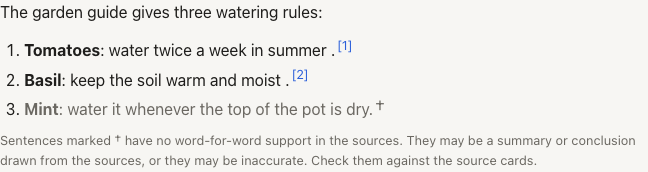
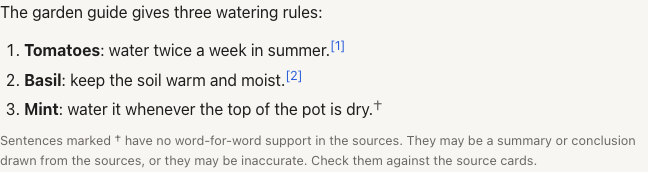
Ask display: closing punctuation against the last word, then citations, then the dagger; unsupported sentences keep the text colour; Drawn from heading gets the Show more chevron; Ask screenshots taken again

Changed region(s): [[0.0309, 0.5814, 0.5864, 0.6686], [0.4938, 0.2326, 0.5556, 0.3198], [0.4321, 0.407, 0.4938, 0.4942]]

diff --git a/src/renderer/ask/answer-source.test.js b/src/renderer/ask/answer-source.test.js
@@ -1,5 +1,6 @@
 import { describe, expect, it } from 'vitest';
-import { claimsSource, streamingSource } from './answer-source.js';
+import { claimsSource, streamingSource, tightEnd } from './answer-source.js';
+import { claimsOf, parseCitations } from '../../main/answer/citations.ts';
 import { parseBlocks, plainText } from '../shared/markdown.js';
 
 const make = { cite: (n) => `cite ${n}`, mark: () => 'mark', span: (c) => c.text };
@@ -66,5 +67,69 @@ describe('streamingSource', () => {
     );
     expect(r.src.slice(0, 11)).toBe('- **Rose** ');
     expect(nodeAt(r, r.src.at(-1))).toBe('cite 3');
+  });
+});
+
+// The spacing rule end to end: a reply as the model writes it, its claims as the pipeline makes
+// them (claimsOf), and the text the Ask page shows, with [n] for a citation and the dagger.
+describe('text, punctuation, citations, dagger (display spacing)', () => {
+  const shown = (claims) => {
+    const r = claimsSource(claims, { cite: (n) => `[${n}]`, mark: () => '†', span: () => null });
+    return [...plainText(r.src).plain].map((ch) => r.nodes.get(ch)?.() ?? ch).join('');
+  };
+  const reply = (text, max = 3) => shown(claimsOf(parseCitations(text), max));
+
+  it('puts the citation after the full stop, wherever the model wrote it', () => {
+    for (const text of [
+      'Water weekly [2].',
+      'Water weekly[2].',
+      'Water weekly.[2]',
+      'Water weekly. [2]',
+      'Water weekly [2] .',
+      'Water weekly .[2]',
+    ])
+      expect(reply(text).trim(), text).toBe('Water weekly.[2]');
+  });
+
+  it('puts the dagger right after the full stop, and after the citations', () => {
+    expect(reply('Mint spreads fast .').trim()).toBe('Mint spreads fast.†');
+    expect(reply('Mint spreads fast.').trim()).toBe('Mint spreads fast.†');
+    const both = [{ text: 'Water weekly .', citations: [2], unsupported: true }];
+    expect(shown(both).trim()).toBe('Water weekly.[2]†');
+  });
+
+  it('does the same in Chinese', () => {
+    for (const text of ['每周浇水两次[2]。', '每周浇水两次 [2] 。', '每周浇水两次。[2]', '每周浇水两次 。[2]'])
+      expect(reply(text).trim(), text).toBe('每周浇水两次。[2]');
+    expect(reply('可能不准确 。').trim()).toBe('可能不准确。†');
+  });
+
+  it('holds inside list items and bold text', () => {
+    expect(reply('- Water weekly [2].\n- Feed monthly [1].')).toBe('Water weekly.[2]\nFeed monthly.[1] ');
+    expect(reply('1. **Water weekly** [2].').trim()).toBe('Water weekly.[2]');
+    expect(reply('**Water weekly [2].**').trim()).toBe('Water weekly.[2]');
+    expect(reply('- **Mint spreads fast** .').trim()).toBe('Mint spreads fast.†');
+  });
+
+  it('leaves a sentence without closing punctuation and the space inside a sentence alone', () => {
+    expect(reply('- Water weekly [2]').trim()).toBe('Water weekly[2]');
+    expect(reply('Prune , then water weekly [2].').trim()).toBe('Prune , then water weekly.[2]');
+  });
+
+  it('changes only the display: the claims keep their text', () => {
+    const claims = claimsOf(parseCitations('Water weekly [2].'), 3);
+    shown(claims);
+    expect(claims[0]).toMatchObject({ text: 'Water weekly .', citations: [2] });
+  });
+});
+
+describe('tightEnd', () => {
+  it('closes the gap before the closing punctuation, also across emphasis delimiters', () => {
+    expect(tightEnd('Water weekly .')).toBe('Water weekly.');
+    expect(tightEnd('**Water weekly .**')).toBe('**Water weekly.**');
+    expect(tightEnd('**Water weekly** .')).toBe('**Water weekly**.');
+    expect(tightEnd('要求如下 ：')).toBe('要求如下：');
+    expect(tightEnd('Water weekly')).toBe('Water weekly');
+    expect(tightEnd('Water weekly.')).toBe('Water weekly.');
   });
 });

diff --git a/src/renderer/ask/answer-source.js b/src/renderer/ask/answer-source.js
@@ -30,10 +30,26 @@ export function streamingSource(parts, cite) {
   return { src, nodes: ph.nodes };
 }
 
+// The sentence's closing punctuation, and what may stand between it and the last word: spaces
+// and emphasis delimiters (**Water weekly** .), or after it (**Water weekly .**).
+const CLOSING = /^([\s\S]*?\S)([\s*_]*)([.!?\u3002\uff01\uff1f:\uff1a;\uff1b,\uff0c\u2026]+)([*_]*)$/;
+
+/**
+ * A sentence's text with no space before its closing punctuation. The model often writes the
+ * citation before the full stop (sun [1].), and taking the citation out to place it after the
+ * sentence leaves sun . behind; the display closes that gap. Display only: the stored claim and
+ * verification keep the text as it was.
+ */
+export function tightEnd(body) {
+  const m = CLOSING.exec(body);
+  return m ? m[1] + m[2].replace(/\s+/g, '') + m[3] + m[4] : body;
+}
+
 /**
  * The finished claims as one source. Each claim's Markdown (else its text) without its trailing
- * whitespace, then its citations, then the marker when unsupported, then the whitespace: so the
- * dagger follows the sentence's last word on the same line, inside its list item, and after the
+ * whitespace and with its closing punctuation against its last word (tightEnd), then its
+ * citations, then the marker when unsupported, then the whitespace: text, punctuation, [n], dagger
+ * (Water weekly.[2], spreads fast.\u2020), on the same line, inside its list item, and after the
  * closing ** of a sentence in bold. spans gives each claim's stretch, for the sentence spans.
  */
 export function claimsSource(claims, { cite, mark, span }) {
@@ -43,7 +59,7 @@ export function claimsSource(claims, { cite, mark, span }) {
   claims.forEach((c, i) => {
     const text = (c.markdown ?? c.text).replace(PRIVATE_USE, '');
     const from = src.length;
-    src += text.replace(/\s+$/, '');
+    src += tightEnd(text.replace(/\s+$/, ''));
     for (const n of c.citations) src += ph.add(() => cite(n));
     if (c.unsupported) src += ph.add(() => mark());
     src += /\s+$/.exec(text)?.[0] ?? ' ';

diff --git a/src/renderer/ask/ask.css b/src/renderer/ask/ask.css
@@ -583,7 +583,7 @@ button:focus-visible {
 }
 
 .cite {
-  margin-left: 0.15em;
+  /* Right against the punctuation before it: Water weekly.[2] */
   font-size: 0.8em;
   vertical-align: super;
   line-height: 0;
@@ -599,14 +599,10 @@ span.cite {
   color: var(--text-muted);
 }
 
-.claim.unsupported {
-  color: var(--text-muted);
-}
-
-/* The dagger after an unsupported sentence: a little larger than the text, muted, never bold or
-   italic from the Markdown around it. */
+/* The dagger after an unsupported sentence, its only mark (the sentence keeps the text colour): a
+   little larger than the text, muted, never bold or italic from the Markdown around it, right
+   against the punctuation or citation before it. */
 .unsupported-mark {
-  margin-left: 0.12em;
   font-size: 1.15em;
   font-style: normal;
   font-weight: 400;
@@ -634,6 +630,8 @@ span.cite {
 
 .drawn summary {
   cursor: pointer;
+  /* Its own chevron after the words, as Show N more sections and Compare's Show more. */
+  list-style: none;
   font-size: 0.8rem;
   font-weight: 600;
   letter-spacing: 0.04em;
@@ -656,6 +654,7 @@ span.cite {
   list-style: none;
 }
 
+.drawn summary .chevron,
 .considered summary .chevron {
   display: inline-block;
   /* Kept equal to Compare's Show more chevron (browse.css .compare-more .chevron). */
@@ -666,11 +665,13 @@ span.cite {
 
 /* Closed: the same glyph turned about the middle of its ink (transform-origin from the top of the
    zero-height box, found by measuring), so it sits where the open one does. */
+.drawn summary .chevron.down,
 .considered summary .chevron.down {
   transform-origin: 50% -0.145em;
   transform: translateY(0.3em) rotate(180deg);
 }
 
+.drawn summary::-webkit-details-marker,
 .considered summary::-webkit-details-marker {
   display: none;
 }

diff --git a/src/renderer/ask/ask.js b/src/renderer/ask/ask.js
@@ -311,10 +311,17 @@ function renderCards({ sent, cited, considered, drawn }) {
   els.drawnList.replaceChildren(...g.drawn.map((c) => cardNode(c)));
   els.drawn.hidden = g.drawn.length === 0;
   els.drawn.open = true;
+  setDrawnChevron(true);
   els.consideredList.replaceChildren(...g.considered.map((c) => cardNode(c)));
   els.considered.hidden = g.considered.length === 0;
   els.considered.open = false;
   setConsideredTitle(g.considered.length, false);
+}
+
+/** The Drawn from heading keeps its words; its chevron turns with the group, as on Show N more sections. */
+function setDrawnChevron(open) {
+  const chevron = $('drawn-title').querySelector('.chevron');
+  if (chevron) chevron.className = chevronClass(open);
 }
 
 /** The words, then the chevron in its own span so it can stand a little taller than them. */
@@ -697,6 +704,8 @@ async function initDeveloper() {
 }
 
 // The collapsed group says what opening it does: Show N other sections, Hide N other sections.
+els.drawn.addEventListener('toggle', () => setDrawnChevron(els.drawn.open));
+
 els.considered.addEventListener('toggle', () => {
   setConsideredTitle(els.consideredList.children.length, els.considered.open);
 });

diff --git a/test/e2e/ask.spec.js b/test/e2e/ask.spec.js
@@ -137,7 +137,7 @@ test.describe('Ask page with the answer pipeline stubbed', () => {
       await expect(g.sources.getByTestId('source-card')).toHaveCount(1);
       await expect(g.drawn).toBeVisible();
       await expect(g.drawn).toHaveAttribute('open', '');
-      await expect(g.drawn.locator('summary')).toHaveText('Drawn from, not word for word');
+      await expect(g.drawn.locator('summary')).toHaveText('Drawn from, not word for word ⌃');
       await expect(g.drawn.getByTestId('source-card')).toHaveCount(1);
       await expect(g.drawn.getByTestId('source-section')).toHaveText('Travel');
       await expect(g.drawn.getByTestId('source-passage')).toHaveText(TRAVEL.passage);

diff --git a/src/renderer/ask/index.html b/src/renderer/ask/index.html
@@ -53,7 +53,9 @@
           </section>
 
           <details class="drawn" id="drawn" data-testid="drawn" open hidden>
-            <summary>Drawn from, not word for word</summary>
+            <summary id="drawn-title" data-testid="drawn-title">
+              Drawn from, not word for word <span class="chevron" aria-hidden="true">&#x2303;</span>
+            </summary>
             <ol class="cards" id="drawn-list" data-testid="drawn-list"></ol>
           </details>
 

diff --git a/docs/app.md b/docs/app.md
@@ -217,9 +217,9 @@ Switches that change the single mode, each off in the presets until an eval roun
 - enumerateWhenAsked (src/main/answer/enumerate.ts; on in the presets since round 8a, the follow-up stays off): a set question (a number word or digit before a plural noun, at most one word between, years and decimals not counted; or what are the, list, each, all, components, steps, conditions, requirements, activities, elements, factors, or Chinese equivalents) gets one more rule: count the items in the cited sources that answer the question, then give every one with its citation, without summarizing them into fewer. enumerateFollowUp adds a check after the reply: when the question states a count and the reply enumerates fewer items (list lines, else inline (1) (a) markers, else cited sentences), one more call with the same messages, the reply and a request for only the missing items, streamed after a blank line; `[answer] enumerate: 2 of 3 items, completed by a follow-up in 2100 ms`.
 - noSummarizing (prompt.ts, off; round 9a): the enumerateWhenAsked set rule is replaced by one rule on every question: do not summarize, merge or group; state each item the sources list separately, with its citation; give every member of a set.
 - decomposeQuestions (src/main/answer/decompose.ts, off; round 9b): a question is split only on structure it shows: asks joined by and, as well as or a comma list, each starting with a question word, after a lead-in (Under paragraph 4.7 of the Staff Regulations, ...); or Compare A and B: ask, one part per member. A later ask that points back (it, its, that, there), the former / the latter with no two-member list to resolve them, no lead-in, two question sentences or more than 4 parts leave it whole; a one- or two-word ask (why) joins the one before. Each part runs retrieve, choose and answer on its own; the answer streams part by part under the part's ask as a lead-in, the sources list only grows so numbers already shown stay, citations are renumbered to the union, a section two parts share is one card, and a part its sources do not answer reads The documents do not state this. The result is not found only when every part is. The trace panel shows the first part. `[answer] decompose: asks, 2 parts: "What starts the notice period?" | "Which paragraphs govern the notice period?"`.
-- dropUnsupportedHedges (src/main/answer/hedges.ts, on in the presets): after citation verification a sentence marked unsupported that only says something is missing (The physical PDF page and printed page are not specified in the sources.) is deleted when the answer keeps at least one supported sentence, so the user does not see a muted warning on a remark that is not a claim. Supported sentences are never deleted, and nothing is deleted when no supported sentence would remain. `[answer] hedge dropped: <sentence>`.
+- dropUnsupportedHedges (src/main/answer/hedges.ts, on in the presets): after citation verification a sentence marked unsupported that only says something is missing (The physical PDF page and printed page are not specified in the sources.) is deleted when the answer keeps at least one supported sentence, so the user does not see a marked warning on a remark that is not a claim. Supported sentences are never deleted, and nothing is deleted when no supported sentence would remain. `[answer] hedge dropped: <sentence>`.
 
-6. Output: [n] citations are parsed as they stream (a citation cut between chunks is held back); the cards show the cited sections in citation order with file name, section path, PDF pages and printed page label (when the section records carry one), and the passage the model read, all from the section records. Sections the model cited whose citations verification removed (AnswerResult.drawnFrom; the pipeline keeps them in considered too, so the eval and the test record are unchanged) follow the cited cards in their own group, Drawn from, not word for word, open, with the same cards; the group is absent when every citation passes. The other sources sent to the model follow, collapsed, under a bold title that says what a click does: ▸ Show 3 more sections when closed, ▾ Hide 3 sections when open (Show 1 more section, Hide 1 section). Every card in the three groups shows its source number [n] in the same style, and every number sent to the model appears on exactly one card (src/renderer/ask/groups.js, sourceGroups: cited first, then drawn from, then the rest in source order; a source the result places in no group is shown with the others, one it places twice once). Display only, on Ask cards, the nothing-found list, Compare cards and Find hits (src/renderer/shared/display.js): a section path shows each level without the splitter's part marker, (page N) or (continued), and a level that then repeats the one above it once, so a part shows under its logical parent and the page stays in its own line; a passage that starts with a line holding only a printed page number (up to three digits or a roman numeral), or with such a number glued to a capitalised heading (iiiIntroduction; a glued roman numeral has two letters at least, so iPad stays), is shown without it. The index, the passages the model reads and verification are unchanged. The reply NOT_IN_SOURCES shows the nothing-found list with the best reranked sections, up to 8, with no floor. The answer is rendered as Markdown (src/renderer/shared/markdown.js), while it streams and when it is done: paragraphs, line breaks, bulleted and numbered lists (nested by indentation), bold, italic and inline code; headings, tables, links, images and HTML stay plain text, and the page builds the answer from elements and text nodes only, so nothing in it can run script or load anything. While streaming, delimiters at the very end and a last line that is only a possible list marker wait for the next chunk, and bold or italic opened on the last line shows as such before its closer arrives, so no marker flashes up. Citations and the unsupported marker go into the source as private-use placeholder characters (src/renderer/ask/answer-source.js), so they sit inside list items and bold text and never read as Markdown. A sentence no source supports stays muted and gets a dagger (†, a little larger than the text, muted) after its last word, inside its list item; one line under the answer, and the dagger's tooltip, explain it: Sentences marked † have no word-for-word support in the sources. They may be a summary or conclusion drawn from the sources, or they may be inaccurate. Check them against the source cards. For an answer that is mainly Chinese (at least 30 percent of its letters CJK) the line is 带 † 标记的句子在来源中没有逐字对应的原文，可能是根据来源归纳的结论，也可能不准确，请对照来源卡片核实。 The page has no other locale, so the answer's language picks the line. A lead-in ending with a colon before cited sentences (leadInExempt) gets no dagger.
+6. Output: [n] citations are parsed as they stream (a citation cut between chunks is held back); the cards show the cited sections in citation order with file name, section path, PDF pages and printed page label (when the section records carry one), and the passage the model read, all from the section records. Sections the model cited whose citations verification removed (AnswerResult.drawnFrom; the pipeline keeps them in considered too, so the eval and the test record are unchanged) follow the cited cards in their own group, Drawn from, not word for word, open, with the same cards and the same chevron after its title as the other groups (pointing up open, turned down closed); the group is absent when every citation passes. The other sources sent to the model follow, collapsed, under a bold title that says what a click does: ▸ Show 3 more sections when closed, ▾ Hide 3 sections when open (Show 1 more section, Hide 1 section). Every card in the three groups shows its source number [n] in the same style, and every number sent to the model appears on exactly one card (src/renderer/ask/groups.js, sourceGroups: cited first, then drawn from, then the rest in source order; a source the result places in no group is shown with the others, one it places twice once). Display only, on Ask cards, the nothing-found list, Compare cards and Find hits (src/renderer/shared/display.js): a section path shows each level without the splitter's part marker, (page N) or (continued), and a level that then repeats the one above it once, so a part shows under its logical parent and the page stays in its own line; a passage that starts with a line holding only a printed page number (up to three digits or a roman numeral), or with such a number glued to a capitalised heading (iiiIntroduction; a glued roman numeral has two letters at least, so iPad stays), is shown without it. The index, the passages the model reads and verification are unchanged. The reply NOT_IN_SOURCES shows the nothing-found list with the best reranked sections, up to 8, with no floor. The answer is rendered as Markdown (src/renderer/shared/markdown.js), while it streams and when it is done: paragraphs, line breaks, bulleted and numbered lists (nested by indentation), bold, italic and inline code; headings, tables, links, images and HTML stay plain text, and the page builds the answer from elements and text nodes only, so nothing in it can run script or load anything. While streaming, delimiters at the very end and a last line that is only a possible list marker wait for the next chunk, and bold or italic opened on the last line shows as such before its closer arrives, so no marker flashes up. Citations and the unsupported marker go into the source as private-use placeholder characters (src/renderer/ask/answer-source.js), so they sit inside list items and bold text and never read as Markdown. A sentence no source supports keeps the text colour and gets a dagger (†, a little larger than the text, muted) after its last word, inside its list item, its only mark. The finished answer shows each sentence as text, closing punctuation, citations, dagger, with no space between them (Water weekly.[2], spreads fast.†, 每周浇水两次。[2]) wherever the model put the citation (src/renderer/ask/answer-source.js tightEnd); the stored answer and verification keep the text as written; one line under the answer, and the dagger's tooltip, explain it: Sentences marked † have no word-for-word support in the sources. They may be a summary or conclusion drawn from the sources, or they may be inaccurate. Check them against the source cards. For an answer that is mainly Chinese (at least 30 percent of its letters CJK) the line is 带 † 标记的句子在来源中没有逐字对应的原文，可能是根据来源归纳的结论，也可能不准确，请对照来源卡片核实。 The page has no other locale, so the answer's language picks the line. A lead-in ending with a colon before cited sentences (leadInExempt) gets no dagger.
 
 The main log gets one line per question, without the question text: `[answer] 2 cited of 3 selected, 12 candidates, vector 45 ms, keyword 2 ms, rerank 640 ms, first token 900 ms, total 4100 ms`.
 

diff --git a/docs/user-guide.md b/docs/user-guide.md
@@ -27,7 +27,7 @@ The kind only changes how documents are grouped and linked on the Graph page. Yo
 
 Type a question on the Ask page and press Enter. The answer cites its sources with numbers, and a card for each source shows the file, the section and the page. Click Read section to see the passage in the document, or Open file to open the original.
 
-Answers can contain lists, bold and italic text, shown as such. A sentence with a dagger (†) after it is shown in a lighter colour. The line under the answer, and the dagger's tooltip, say: Sentences marked † have no word-for-word support in the sources. They may be a summary or conclusion drawn from the sources, or they may be inaccurate. Check them against the source cards. For an answer in Chinese they say: 带 † 标记的句子在来源中没有逐字对应的原文，可能是根据来源归纳的结论，也可能不准确，请对照来源卡片核实。
+Answers can contain lists, bold and italic text, shown as such. Only a dagger (†) after a sentence marks it; the sentence itself looks like the others. The line under the answer, and the dagger's tooltip, say: Sentences marked † have no word-for-word support in the sources. They may be a summary or conclusion drawn from the sources, or they may be inaccurate. Check them against the source cards. For an answer in Chinese they say: 带 † 标记的句子在来源中没有逐字对应的原文，可能是根据来源归纳的结论，也可能不准确，请对照来源卡片核实。
 
 While AskFiles is reading new files, the question box is switched off and says Reading new files, and how many are left. It comes back as soon as they are read, so an answer never misses a file you just added.
 
